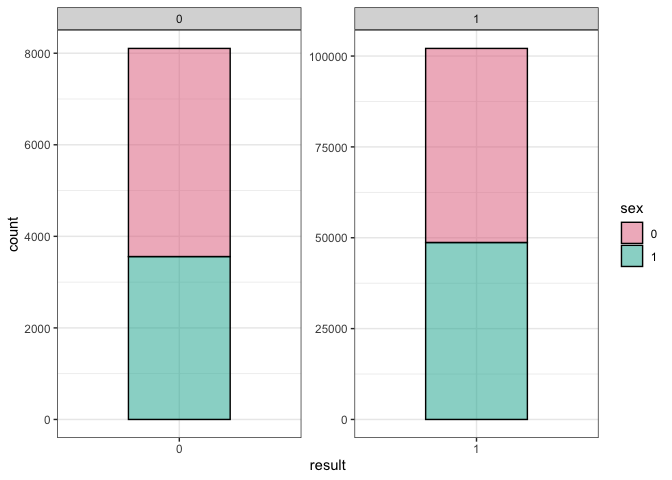
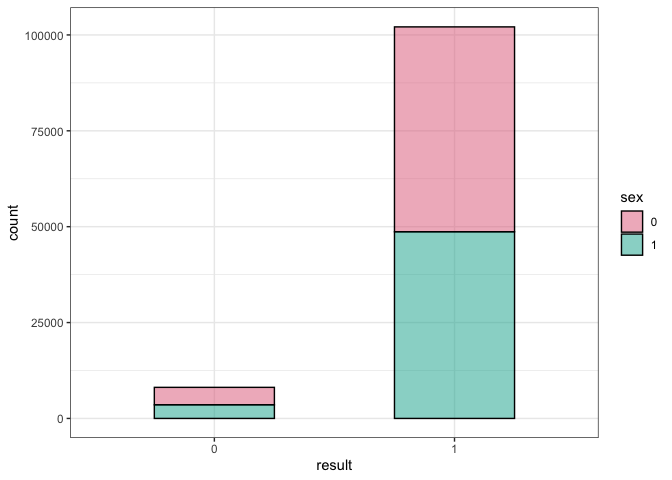
Sat Night Push

diff --git a/Sepsis-Survival-Classification-Naives-Bayes.md b/Sepsis-Survival-Classification-Naives-Bayes.md
@@ -16,6 +16,8 @@ Rex Manglicmot
 -   <a href="#exploratory-data-analysis"
     id="toc-exploratory-data-analysis">Exploratory Data Analysis</a>
 -   <a href="#naives-bayes" id="toc-naives-bayes">Naives Bayes</a>
+    -   <a href="#pros" id="toc-pros">Pros</a>
+    -   <a href="#cons" id="toc-cons">Cons</a>
 -   <a href="#limitations" id="toc-limitations">Limitations</a>
 -   <a href="#conclusion" id="toc-conclusion">Conclusion</a>
 -   <a href="#inspiration-for-this-project"
@@ -31,12 +33,25 @@ Things still need to do/Questions:
 
 ## Introduction
 
-![](https://miro.medium.com/max/1154/1*lIhMVUIcX6cSq2URrG9M1w.webp)
-Sepsis is bad.
+<center>
 
-Four (4) clinical features: - age_years: integer - sex_0male_1female:
-binary - episode_number: integer - hospital_outcome_1alive_0dead:
-boolean
+![](https://www.drugtargetreview.com/wp-content/uploads/sepsis-3.jpg)
+
+</center>
+
+**?????** According to the Center for Disease Control and Prevention, in
+a given year, 1 of 3 patients who have died within the hospital had
+sepsis during hospitalization, however, nearly 87% of sepsis cases
+starts before the patient goes to the hospital.[^1] It leaves hospitals
+institutions in a precarious situation. How do ultimately help a patient
+get better and not be subjected to malpractice suits?
+
+The dataset contains 4 clinical features as follows:
+
+-   age(int): years: integer
+-   sex(binary): 0=male and 1=female
+-   episode_number (int):
+-   hospital_outcome(boolean): 0=dead and 1=alive
 
 ## Loading the Libraries
 
@@ -207,6 +222,17 @@ ggplot(data, aes(x=result, y=age, fill=sex)) +
 ![](Sepsis-Survival-Classification-Naives-Bayes_files/figure-gfm/unnamed-chunk-8-1.png)<!-- -->
 
 ``` r
+#create a barchart
+ggplot(data, aes(x=result, fill=sex)) +
+  geom_bar(alpha = .5, color='black', width = 0.5) +
+  scale_fill_discrete_qualitative() +
+  theme_bw()
+```
+
+![](Sepsis-Survival-Classification-Naives-Bayes_files/figure-gfm/unnamed-chunk-8-2.png)<!-- -->
+
+``` r
+#create a better  barchart
 ggplot(data, aes(x=result, fill=sex)) +
   geom_bar(alpha = .5, color='black', width = 0.5) +
   facet_wrap(~ result, scales = 'free') +
@@ -214,12 +240,24 @@ ggplot(data, aes(x=result, fill=sex)) +
   theme_bw()
 ```
 
-![](Sepsis-Survival-Classification-Naives-Bayes_files/figure-gfm/unnamed-chunk-8-2.png)<!-- -->
+![](Sepsis-Survival-Classification-Naives-Bayes_files/figure-gfm/unnamed-chunk-8-3.png)<!-- -->
 
 ## Naives Bayes
+
+<center>
+
+![](https://miro.medium.com/max/1154/1*lIhMVUIcX6cSq2URrG9M1w.webp)
+
+</center>
+
+### Pros
+
+### Cons
 
 ## Limitations
 
 ## Conclusion
 
 ## Inspiration for this project
+
+[^1]: <https://www.cdc.gov/sepsis/what-is-sepsis.html#>:\~:text=In%20a%20typical%20year%3A,had%20sepsis%20during%20that%20hospitalization
